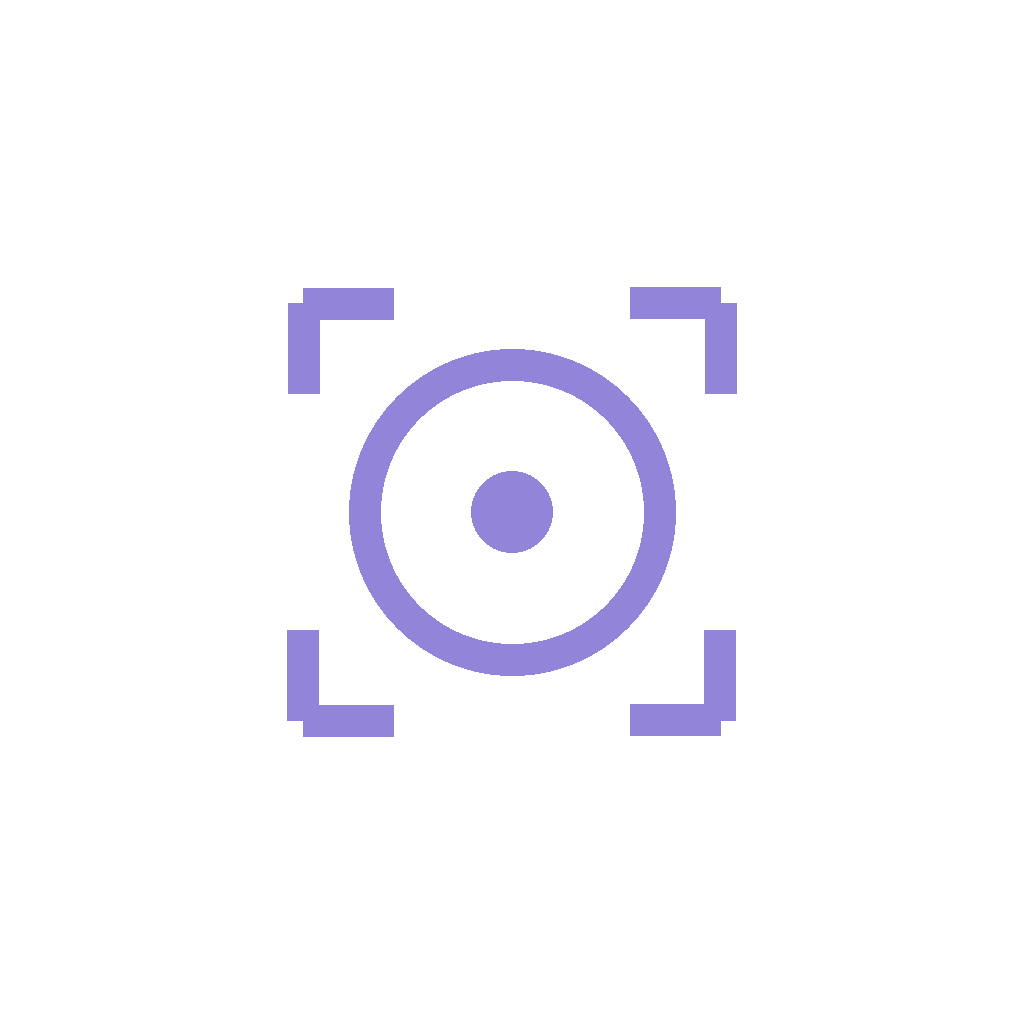
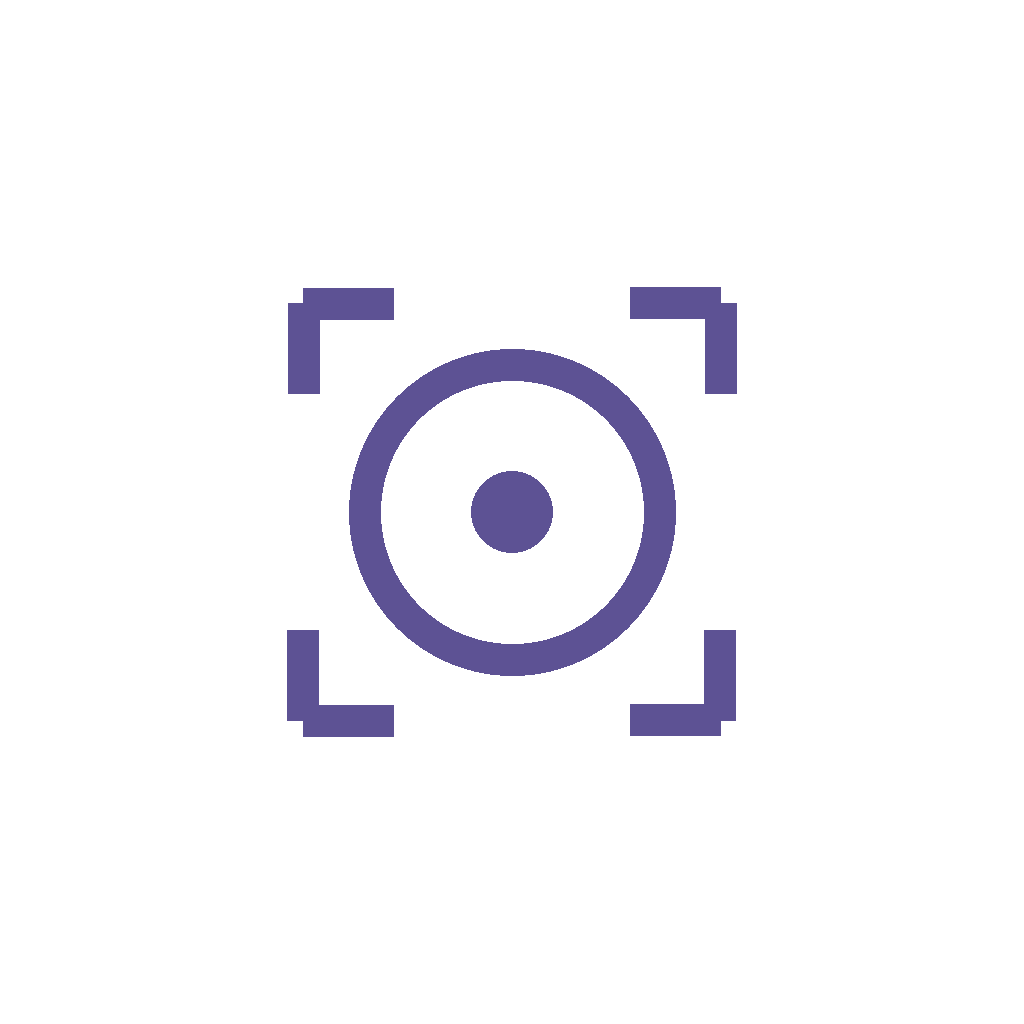
fix(apti): light theme instead of the handoff's dark Nocturne
Apti asked for a light app; the approved design handoff only documents
a dark ground ("Nocturne is a quiet, compact dark interface"). Inverted
using the design system's own documented rule for it - tonal ramps are
generated on one shared OKLCH lightness scale per role, and which step
plays fill/text/accent simply flips with the ground (the readme states
this explicitly for interaction states and elevation: "--color-accent-
600 on a light ground, --color-accent-400 on a dark one"; "soft ink-
tinted shadows on a light theme, a hairline edge + ambient darkness on
a dark one"). Ramp hex values are unchanged from the handoff - only the
role each token points at.

Camera/photo stage chrome (the flip button, cam label, spinner) stays
tuned for a dark viewfinder in both themes, same convention a phone's
own camera app follows; a new `stageText` token marks those spots so
they don't drift when the rest of the app repaints.

diff --git a/mobile/apti/App.tsx b/mobile/apti/App.tsx
@@ -31,7 +31,7 @@ import { LIVE_FRAME_WIDTH, LIVE_INTERVAL_MS, UPLOAD_MAX_WIDTH } from './src/conf
 import type { Size } from './src/geometry';
 import { prepareForUpload } from './src/image';
 import { DEFAULT_MODE_ICON, MODE_ICON } from './src/modeIcons';
-import { color, fontHeading, fontHeadingSemibold, radius, shadow, space, textMuted, textMuted50 } from './src/theme';
+import { color, fontHeading, fontHeadingSemibold, radius, shadow, space, stageText, textMuted, textMuted50 } from './src/theme';
 
 type Tab = 'live' | 'photo';
 type Facing = 'back' | 'front';
@@ -83,7 +83,9 @@ function Spinner({ size = 32 }: { size?: number }) {
   const rotate = spin.interpolate({ inputRange: [0, 1], outputRange: ['0deg', '360deg'] });
   return (
     <Animated.View style={{ transform: [{ rotate }] }}>
-      <Icon name="loading" size={size} color={color.accent} />
+      {/* Always drawn over the dark camera/photo stage overlay, so this stays a light
+          accent step regardless of app theme - the same reasoning as stageText below. */}
+      <Icon name="loading" size={size} color={color.accent300} />
     </Animated.View>
   );
 }
@@ -209,13 +211,11 @@ function Screen() {
 
   return (
     <SafeAreaView style={styles.root} edges={['top', 'bottom']}>
-      <StatusBar style="light" />
-      <LinearGradient
-        colors={[color.accent900, color.bg]}
-        locations={[0, 0.65]}
-        style={StyleSheet.absoluteFill}
-        pointerEvents="none"
-      />
+      {/* Dark OS status bar icons against the light app background - the moody dark radial
+          glow the dark theme drew over the whole page is dropped here too: the design
+          system's own "Do" guidance is to keep chroma low and lean on neutral surfaces,
+          which a flat light ground already does. */}
+      <StatusBar style="dark" />
       <ScrollView contentContainerStyle={styles.content} showsVerticalScrollIndicator={false}>
         <View style={styles.titleRow}>
           <View style={{ gap: 2 }}>
@@ -226,7 +226,7 @@ function Screen() {
             <Tag variant="accent" style={styles.liveTag}>
               <View style={{ flexDirection: 'row', alignItems: 'center', gap: 6 }}>
                 <LiveDot />
-                <Text style={{ color: color.accent100, fontSize: 11 }}>Live · {(1000 / LIVE_INTERVAL_MS).toFixed(1)} fps</Text>
+                <Text style={{ color: color.accent800, fontSize: 11 }}>Live · {(1000 / LIVE_INTERVAL_MS).toFixed(1)} fps</Text>
               </View>
             </Tag>
           )}
@@ -246,7 +246,7 @@ function Screen() {
           modesError ? (
             <Card elevated style={{ gap: 10, padding: 14 }}>
               <View style={{ flexDirection: 'row', gap: 8, alignItems: 'center' }}>
-                <Icon name="power-plug-off-outline" size={18} color={color.accent300} />
+                <Icon name="power-plug-off-outline" size={18} color={color.accent} />
                 <Text style={{ color: color.text, fontSize: 14 }}>Could not reach the demo service.</Text>
               </View>
               <Btn variant="primary" block onPress={loadModes}>
@@ -256,7 +256,7 @@ function Screen() {
           ) : (
             <View style={{ flexDirection: 'row', gap: 8, paddingVertical: 6 }}>
               {[90, 80, 70, 90].map((w, i) => (
-                <View key={i} style={{ height: 36, width: w, borderRadius: 8, backgroundColor: color.surface }} />
+                <View key={i} style={{ height: 36, width: w, borderRadius: 8, backgroundColor: color.neutral200 }} />
               ))}
             </View>
           )
@@ -285,7 +285,7 @@ function Screen() {
         {mode && !mode.available ? (
           <Card elevated style={{ gap: 8, padding: 16 }}>
             <Tag variant="outline">{mode.note ?? 'Not available yet'}</Tag>
-            <Text style={{ fontSize: 14, color: color.neutral300 }}>This detector is being finished. Try another mode meanwhile.</Text>
+            <Text style={{ fontSize: 14, color: color.neutral700 }}>This detector is being finished. Try another mode meanwhile.</Text>
           </Card>
         ) : tab === 'live' ? (
           !permission ? (
@@ -293,9 +293,9 @@ function Screen() {
           ) : !permission.granted ? (
             <Card elevated style={{ gap: 12, padding: 18 }}>
               <View style={styles.permissionIcon}>
-                <Icon name="camera-outline" size={22} color={color.accent300} />
+                <Icon name="camera-outline" size={22} color={color.accent} />
               </View>
-              <Text style={{ fontSize: 14, color: color.neutral300 }}>
+              <Text style={{ fontSize: 14, color: color.neutral700 }}>
                 Apti needs the camera to show live detection. Frames are analysed and never stored.
               </Text>
               <Btn variant="primary" block onPress={requestPermission}>
@@ -325,7 +325,7 @@ function Screen() {
                 onPress={() => { setFacing((f) => (f === 'back' ? 'front' : 'back')); setResult(null); }}
                 style={styles.flipButton}
                 accessibilityLabel="Switch camera"
-                icon={<Icon name="camera-flip-outline" size={20} color={color.text} />}
+                icon={<Icon name="camera-flip-outline" size={20} color={stageText} />}
               />
               {busy && (
                 <View style={styles.busyOverlay}>
@@ -367,8 +367,8 @@ function Screen() {
 
         {notice && (
           <View style={{ flexDirection: 'row', gap: 8, alignItems: 'center' }}>
-            <Icon name="alert-circle-outline" size={16} color={color.accent300} />
-            <Text style={{ color: color.accent300, fontSize: 13, flex: 1 }}>{notice}</Text>
+            <Icon name="alert-circle-outline" size={16} color={color.accent} />
+            <Text style={{ color: color.accent, fontSize: 13, flex: 1 }}>{notice}</Text>
           </View>
         )}
 
@@ -419,14 +419,14 @@ const styles = StyleSheet.create({
   titleRow: { flexDirection: 'row', alignItems: 'flex-end', justifyContent: 'space-between', gap: 12 },
   appTitle: { color: color.text, fontSize: 28, fontFamily: fontHeading, letterSpacing: -0.5 },
   liveTag: { paddingVertical: 4 },
-  liveDot: { width: 6, height: 6, borderRadius: 3, backgroundColor: color.accent300 },
+  liveDot: { width: 6, height: 6, borderRadius: 3, backgroundColor: color.accent },
   subtitle: { color: textMuted, fontSize: 14, marginTop: -6 },
   chips: { gap: 8, paddingVertical: 2 },
   chip: { paddingVertical: 9, paddingHorizontal: 14 },
   modeDescription: { color: textMuted, fontSize: 13, marginTop: -4 },
   permissionIcon: {
     width: 40, height: 40, borderRadius: 8, alignItems: 'center', justifyContent: 'center',
-    backgroundColor: color.accent900,
+    backgroundColor: color.accent100,
   },
   stage: {
     position: 'relative', width: '100%', aspectRatio: 3 / 4, borderRadius: radius.lg,
@@ -438,7 +438,9 @@ const styles = StyleSheet.create({
     flexDirection: 'row', justifyContent: 'space-between', alignItems: 'center',
   },
   camDot: { width: 7, height: 7, borderRadius: 3.5, backgroundColor: color.accent400 },
-  camLabel: { color: color.text, fontSize: 11, letterSpacing: 1, fontFamily: fontHeadingSemibold },
+  // Always over the dark camera-stage gradient bar - stageText, not the theme's text
+  // token, for the same reason as the flip-camera icon above.
+  camLabel: { color: stageText, fontSize: 11, letterSpacing: 1, fontFamily: fontHeadingSemibold },
   clock: { color: color.neutral300, fontSize: 11, fontVariant: ['tabular-nums'] },
   flipButton: { position: 'absolute', right: 12, bottom: 12, borderRadius: 22, backgroundColor: 'rgba(22,24,38,0.7)' },
   busyOverlay: {
@@ -447,9 +449,9 @@ const styles = StyleSheet.create({
   },
   resultRow: { gap: 4 },
   resultLabelRow: { flexDirection: 'row', alignItems: 'center', gap: 10 },
-  resultLabel: { flex: 1, minWidth: 0, color: color.neutral200, fontSize: 14 },
-  resultPct: { color: color.neutral400, fontSize: 13, fontVariant: ['tabular-nums'] },
-  resultTrack: { width: '100%', height: 2, borderRadius: 1, backgroundColor: color.neutral800, overflow: 'hidden' },
+  resultLabel: { flex: 1, minWidth: 0, color: color.text, fontSize: 14 },
+  resultPct: { color: color.neutral600, fontSize: 13, fontVariant: ['tabular-nums'] },
+  resultTrack: { width: '100%', height: 2, borderRadius: 1, backgroundColor: color.neutral200, overflow: 'hidden' },
   resultFill: { height: '100%', backgroundColor: color.accent, borderRadius: 1 },
   footer: { flexDirection: 'row', gap: 8, alignItems: 'flex-start', marginTop: 4 },
   footerText: { flex: 1, color: color.neutral600, fontSize: 11, lineHeight: 15 },

diff --git a/mobile/apti/src/theme.ts b/mobile/apti/src/theme.ts
@@ -1,21 +1,32 @@
 /**
- * Nocturne design system tokens, ported from the approved design handoff
- * (the `_ds/nocturne-.../styles.css` handoff file). Values are copied 1:1, not eyeballed — this file is the
- * source of truth for the app's look, mirroring the CSS file's own stated role.
+ * Nocturne design tokens - LIGHT variant.
  *
- * px values in the source CSS were generated for a desktop deck's own base unit; the
- * `space-*` scale here keeps the CSS's exact numbers since the mockup's own phone
- * artboard already uses them directly (e.g. `padding: var(--space-4) 16px 40px`).
+ * The approved handoff (the `_ds/nocturne-.../styles.css` design system) only documents a
+ * dark ground ("Nocturne is a quiet, compact dark interface"). Apti asked for a light app
+ * instead, and the system's own readme gives the rule for inverting it rather than leaving
+ * it to guesswork: each color role carries a 100-900 tonal ramp generated on one shared
+ * OKLCH lightness scale, and which step plays which role simply flips with the ground -
+ * "dark steps (700-900) for tinted fills... light steps (100-300) for text on those tints"
+ * on a dark ground becomes light steps for fills and dark steps for text on a light one.
+ * The interaction-state note makes the same point explicitly ("--color-accent-600 on a
+ * light ground, --color-accent-400 on a dark one"), and elevation gets its own explicit
+ * rule: "soft ink-tinted shadows on a light theme, a hairline edge + ambient darkness on a
+ * dark one." The ramp hex values themselves are unchanged from the handoff - only which
+ * semantic role points at which step, per that rule.
  */
 
 export const color = {
-  bg: '#161826',
-  surface: '#232532',
-  text: '#e9e9ed',
-  accent: '#9184d9',
-  accent2: '#a7a1db',
-  // color-mix(in srgb, #e9e9ed 16%, transparent) flattened onto `bg` for RN (no color-mix).
-  divider: 'rgba(233,233,237,0.16)',
+  bg: '#f3f5fe',
+  surface: '#ffffff',
+  text: '#20222c',
+  // Promoted from accent-700: the handoff's own base accent (#9184d9) is too light to read
+  // reliably against a light ground (see the readme's 3:1 contrast note, which is stated
+  // for the dark ground and inverts here) - accent-700 is the ramp step this system's own
+  // "one step past base, on a light ground" rule points at for real legibility.
+  accent: '#5d5294',
+  accent2: '#5c5783',
+  // was a light-text tint on the dark ground; inverted to a dark-text tint on the light one.
+  divider: 'rgba(32,34,44,0.12)',
 
   neutral100: '#f3f5fe',
   neutral200: '#e4e7f5',
@@ -38,10 +49,15 @@ export const color = {
   accent900: '#2b2741',
 } as const;
 
+/** Always light, regardless of app theme - for chrome drawn over the camera/photo stage,
+ *  which stays a dark viewfinder in both themes (the same convention a phone's own camera
+ *  app follows). Never used on the page itself. */
+export const stageText = '#e9e9ed';
+
 // text at 50/55/60/70% opacity, flattened for RN (color-mix has no RN equivalent).
-export const textMuted = 'rgba(233,233,237,0.55)';
-export const textMuted50 = 'rgba(233,233,237,0.5)';
-export const textMuted70 = 'rgba(233,233,237,0.7)';
+export const textMuted = 'rgba(32,34,44,0.6)';
+export const textMuted50 = 'rgba(32,34,44,0.55)';
+export const textMuted70 = 'rgba(32,34,44,0.75)';
 
 export const space = {
   1: 2.8,
@@ -58,17 +74,20 @@ export const radius = {
   lg: 14,
 } as const;
 
-// RN has no multi-layer box-shadow; `.elev-*`'s hairline ring is approximated with a
-// border (drawn in the component), and only the ambient blur travels through these.
+// "Soft ink-tinted shadows on a light theme" (the handoff's own words) - gentle, not the
+// dark theme's hairline-ring + heavy ambient darkness.
 export const shadow = {
-  sm: { shadowColor: '#000', shadowOpacity: 0, shadowRadius: 0, elevation: 0 },
+  sm: {
+    shadowColor: '#000', shadowOffset: { width: 0, height: 1 }, shadowOpacity: 0.05,
+    shadowRadius: 3, elevation: 1,
+  },
   md: {
-    shadowColor: '#000', shadowOffset: { width: 0, height: 6 }, shadowOpacity: 0.55,
-    shadowRadius: 18, elevation: 6,
+    shadowColor: '#000', shadowOffset: { width: 0, height: 4 }, shadowOpacity: 0.08,
+    shadowRadius: 14, elevation: 3,
   },
   lg: {
-    shadowColor: '#000', shadowOffset: { width: 0, height: 16 }, shadowOpacity: 0.65,
-    shadowRadius: 40, elevation: 12,
+    shadowColor: '#000', shadowOffset: { width: 0, height: 10 }, shadowOpacity: 0.12,
+    shadowRadius: 28, elevation: 6,
   },
 } as const;
 

diff --git a/mobile/apti/src/components/ui.tsx b/mobile/apti/src/components/ui.tsx
@@ -45,13 +45,17 @@ export function Tag({
   children: React.ReactNode;
   style?: StyleProp<ViewStyle>;
 }) {
+  // Tinted-fill roles invert with the ground: the handoff's dark theme used dark ramp
+  // steps for fills and light steps for the text on them ("dark steps (700-900) for
+  // tinted fills... light steps (100-300) for text on those tints"); on this light ground
+  // that's a light fill with a dark step for the text sitting on it.
   const variantStyle =
     variant === 'outline'
       ? { borderWidth: 1, borderColor: color.accent, backgroundColor: 'transparent' as const }
       : variant === 'neutral'
-        ? { backgroundColor: color.neutral800 }
-        : { backgroundColor: color.accent800 };
-  const textColor = variant === 'outline' ? color.accent : variant === 'neutral' ? color.neutral100 : color.accent100;
+        ? { backgroundColor: color.neutral200 }
+        : { backgroundColor: color.accent100 };
+  const textColor = variant === 'outline' ? color.accent : variant === 'neutral' ? color.neutral800 : color.accent800;
   return (
     <View style={[styles.tag, variantStyle, style]}>
       {typeof children === 'string' ? (
@@ -156,7 +160,10 @@ const styles = StyleSheet.create({
     borderRadius: radius.md,
     backgroundColor: color.surface,
   },
-  cardElevated: { ...shadow.md, borderWidth: 1, borderColor: color.neutral800 },
+  // "Soft ink-tinted shadows on a light theme" (the handoff's own words) replace the dark
+  // theme's hairline-ring border; a faint neutral edge is kept only for definition on very
+  // uniform backgrounds, not as the primary elevation cue.
+  cardElevated: { ...shadow.md, borderWidth: 1, borderColor: color.neutral200 },
   tag: {
     alignSelf: 'flex-start',
     borderRadius: radius.md * 0.75,
@@ -176,9 +183,9 @@ const styles = StyleSheet.create({
   },
   btnText: { fontFamily: fontHeading, fontSize: 14 },
   btnPrimary: { borderColor: color.accent, backgroundColor: 'transparent' },
-  btnPrimaryPressed: { backgroundColor: 'rgba(145,132,217,0.22)' },
+  btnPrimaryPressed: { backgroundColor: 'rgba(93,82,148,0.16)' }, // accent tint
   btnSecondary: { borderColor: color.divider, backgroundColor: 'transparent' },
-  btnSecondaryPressed: { backgroundColor: 'rgba(233,233,237,0.14)' },
+  btnSecondaryPressed: { backgroundColor: 'rgba(32,34,44,0.08)' }, // text tint
   seg: {
     flexDirection: 'row',
     borderWidth: 1,
